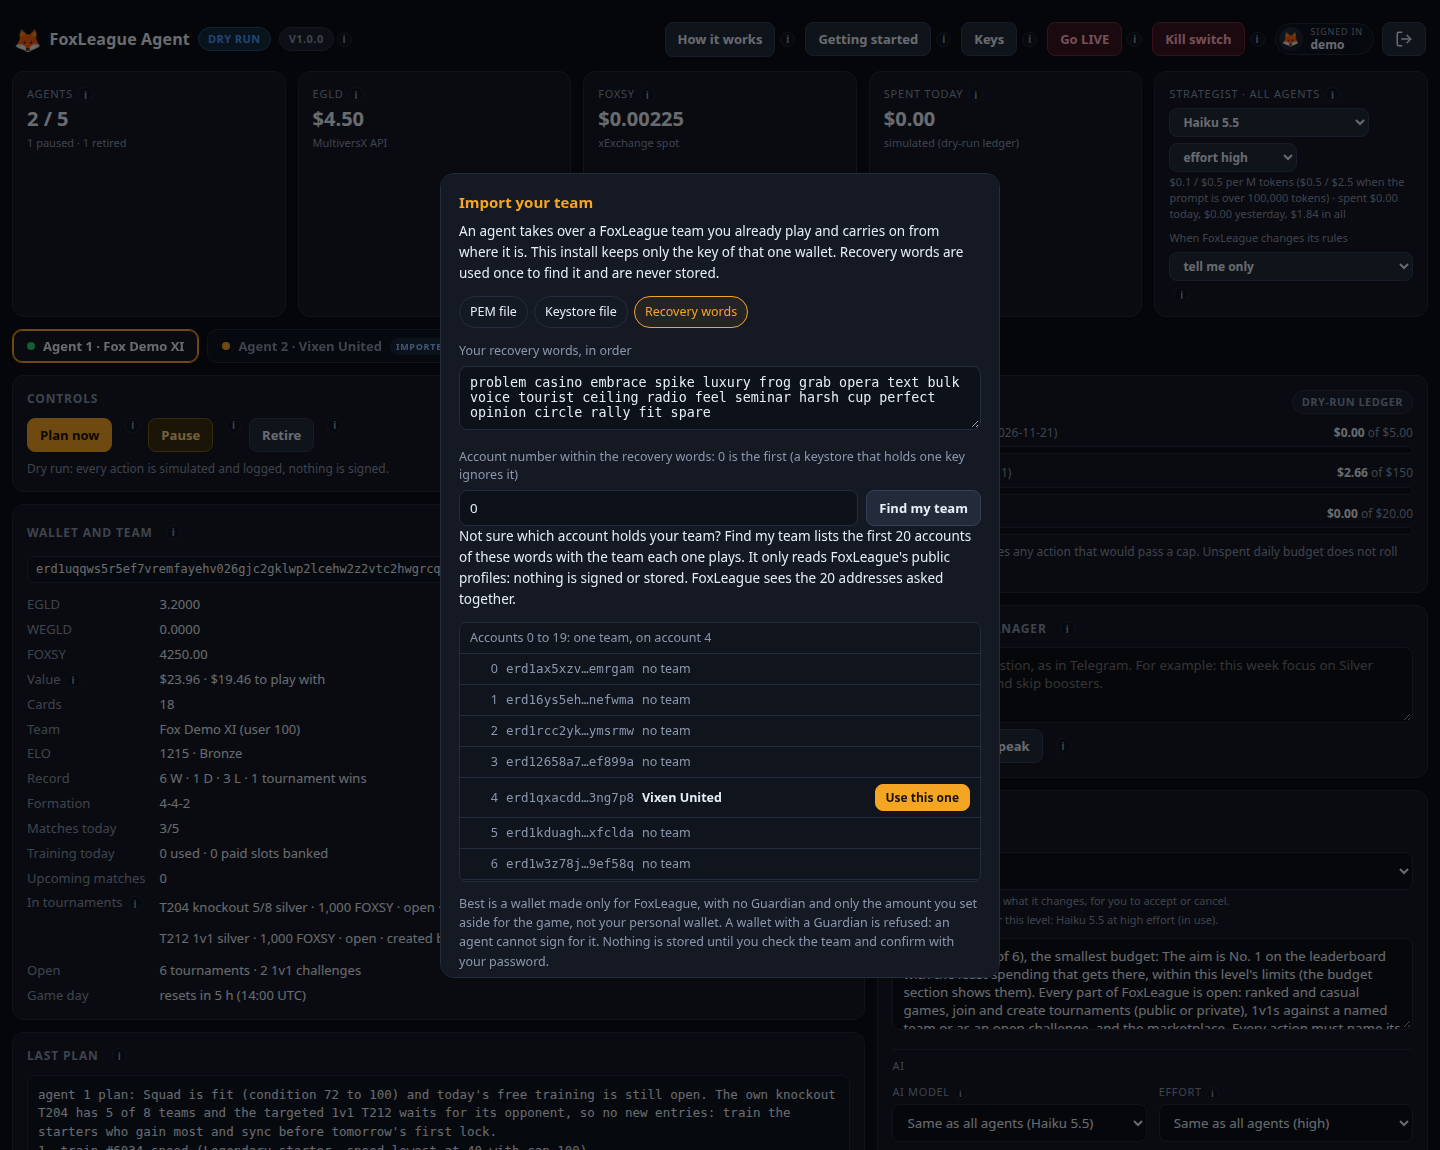
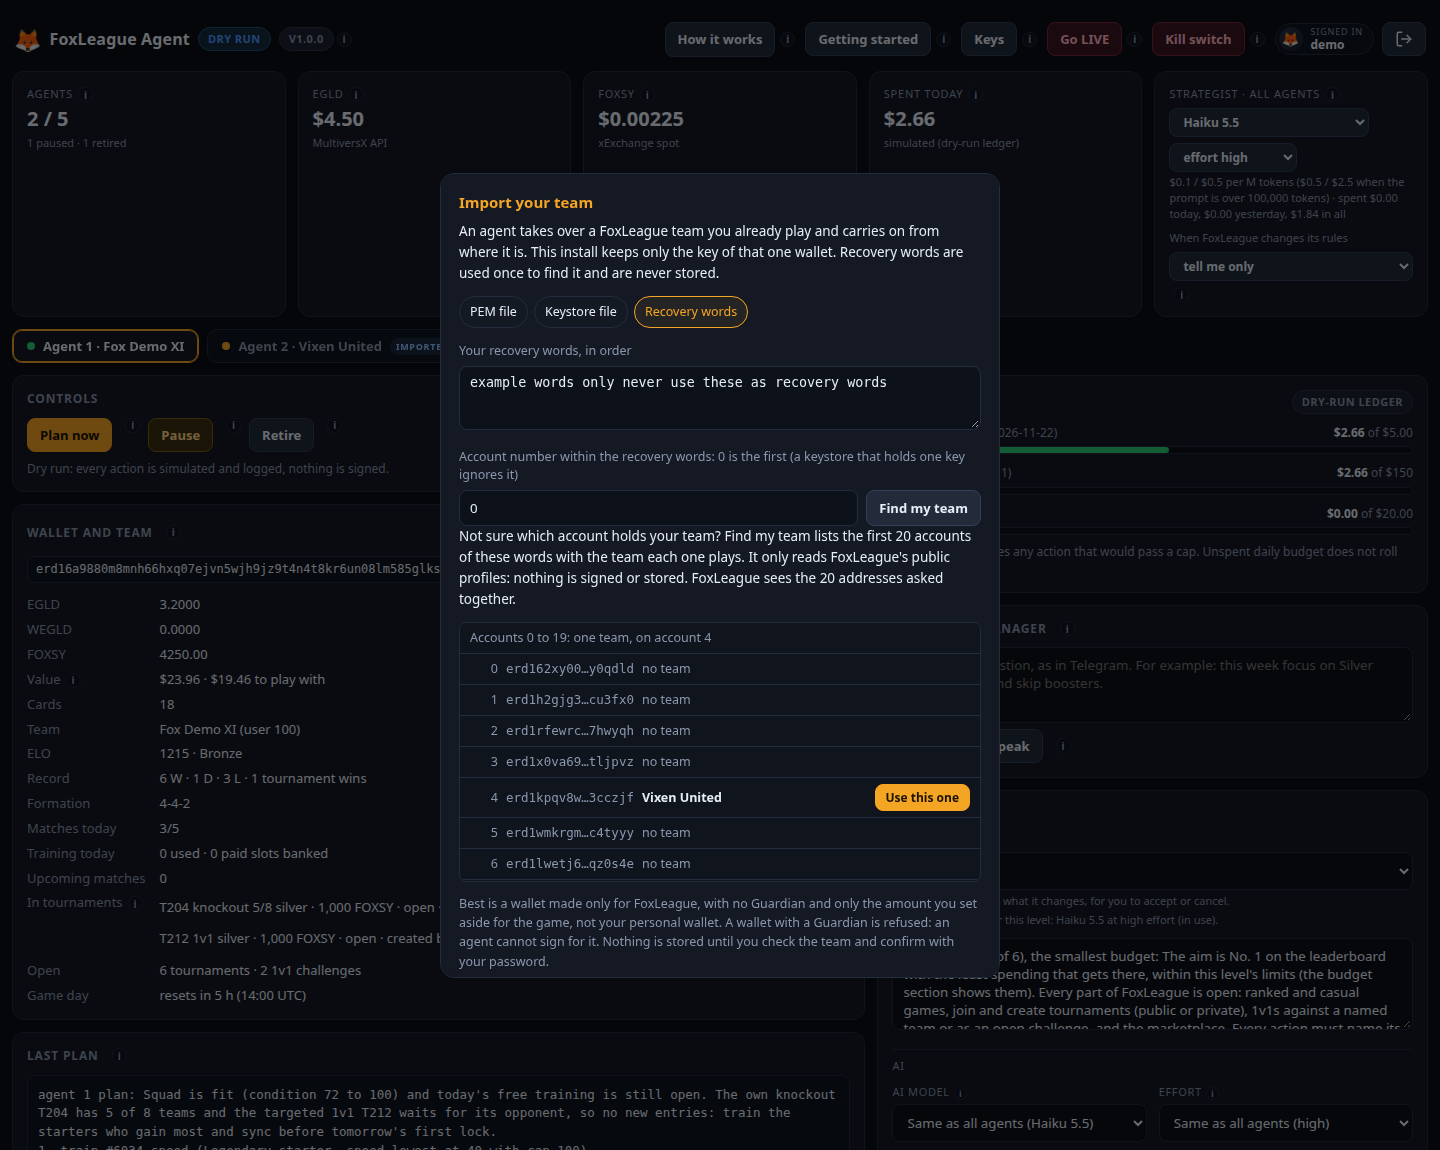
SHOT-FIND: the Find my team screenshot shows no valid recovery words
site/scripts/screenshots.ts filled the recovery words box with 24 valid
throwaway words, and import-team-find.png showed them on the public
site. The box now holds "example words only never use these as
recovery words", which is no recovery phrase; the list's addresses
still come from throwaway words that are never shown. The screenshots
were taken again; only import-team-find.png is kept from that run (the
others differed only by their random demo data).

diff --git a/test/audit-1122/SHOT-FIND.test.ts b/test/audit-1122/SHOT-FIND.test.ts
@@ -1,0 +1,24 @@
+// The Find my team screenshot (pre-release audit 2026-11-22, ATTACK's note): site/scripts/screenshots.ts filled the
+// recovery words box with 24 valid throwaway words, and site/public/screenshots/import-team-find.png showed them in
+// clear on the public site: a wallet nobody should ever fund, and a picture that teaches pasting real words where
+// others can see them. The box now holds plain text that is no recovery phrase; the addresses of the list still come
+// from throwaway words that are never shown.
+import { test } from 'node:test'
+import assert from 'node:assert/strict'
+import { readFileSync } from 'node:fs'
+import { join } from 'node:path'
+import { Mnemonic } from '@multiversx/sdk-core'
+
+const script = readFileSync(join(import.meta.dirname, '..', '..', 'site', 'scripts', 'screenshots.ts'), 'utf8')
+
+test('SHOT-FIND the screenshot fills the words box with text that is no recovery phrase', () => {
+  const set = /\$\('impWords'\)\.value = \$\{JSON\.stringify\((.*?)\)\}/.exec(script)
+  assert.ok(set, 'the script fills the words box')
+  const literal = /^(?:'([^']*)'|"([^"]*)"|([A-Z_]+))$/.exec(set[1]!.trim())
+  assert.ok(literal, `the words box gets ${set[1]}, not a fixed text`)
+  const name = literal[3]
+  const text = name ? new RegExp(`const ${name} = '([^']*)'`).exec(script)?.[1] : (literal[1] ?? literal[2])
+  assert.ok(text, `the fixed text of ${set[1]} is in the script`)
+  assert.match(text, /example/i, 'it says it is an example')
+  assert.throws(() => Mnemonic.fromString(text), 'the text in the box must not be a valid recovery phrase')
+})

diff --git a/site/scripts/screenshots.ts b/site/scripts/screenshots.ts
@@ -159,11 +159,14 @@ await shot('add-agent')
 await js(`$('pwCancel').click(); openImport()`)
 await sleep(400)
 await shot('import-team')
-// Find my team as it looks after a search (the demo has no FoxLeague to ask): throwaway words, one team on account 4.
+// Find my team as it looks after a search (the demo has no FoxLeague to ask): one team on account 4. The box shows
+// plain text that is no recovery phrase (a picture of real words teaches pasting them where others can see them); the
+// list's addresses come from throwaway words that are never shown.
+const DEMO_BOX = 'example words only never use these as recovery words'
 const demoWords = Mnemonic.generate()
 const found = Array.from({ length: 20 }, (_, n) => ({ account: n, address: demoWords.deriveKey(n).generatePublicKey().toAddress('erd').toBech32(), team: n === 4 ? 'Vixen United' : null }))
 await send('Emulation.setDeviceMetricsOverride', { width: 1440, height: 1150, deviceScaleFactor: 1, mobile: false }) // the list below the dialog's fields
-await js(`document.querySelector('input[name=impKind][value=words]').click(); $('impWords').value = ${JSON.stringify(demoWords.toString())}; impShowFound(${JSON.stringify(found)}, 0)`)
+await js(`document.querySelector('input[name=impKind][value=words]').click(); $('impWords').value = ${JSON.stringify(DEMO_BOX)}; impShowFound(${JSON.stringify(found)}, 0)`)
 await sleep(400)
 await shot('import-team-find')
 await send('Emulation.setDeviceMetricsOverride', { width: 1440, height: 900, deviceScaleFactor: 1, mobile: false })
